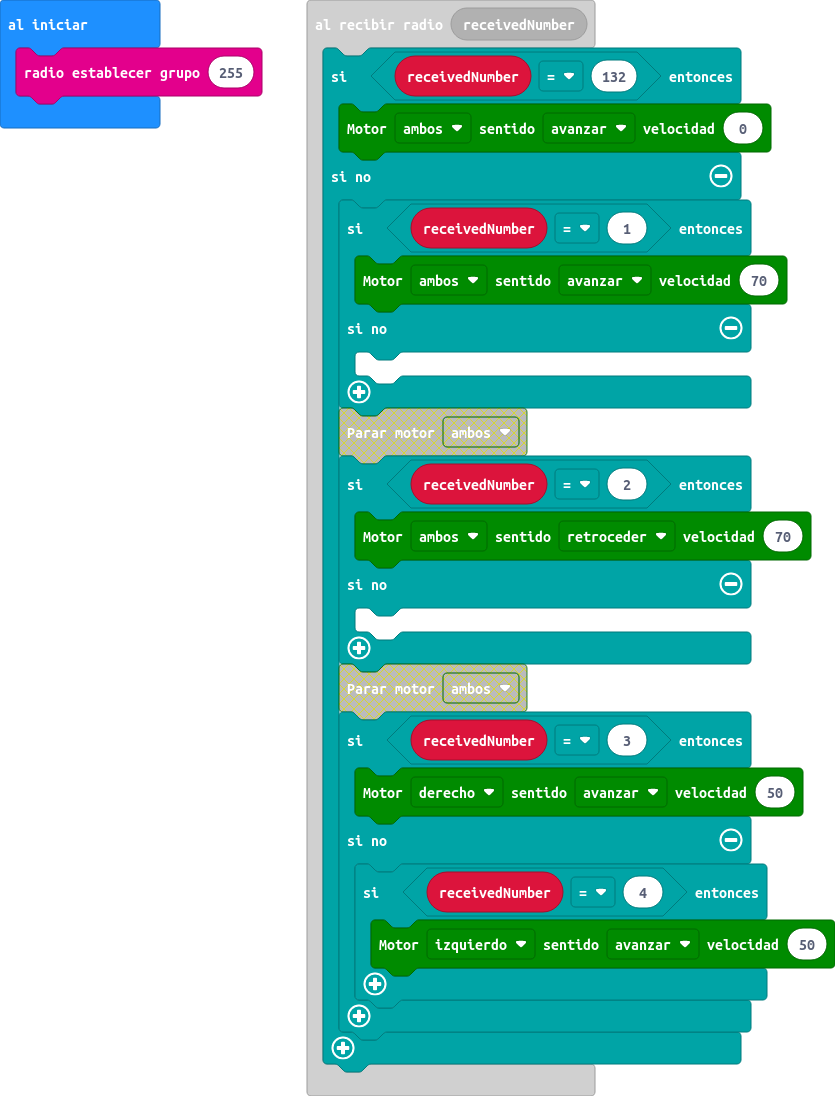
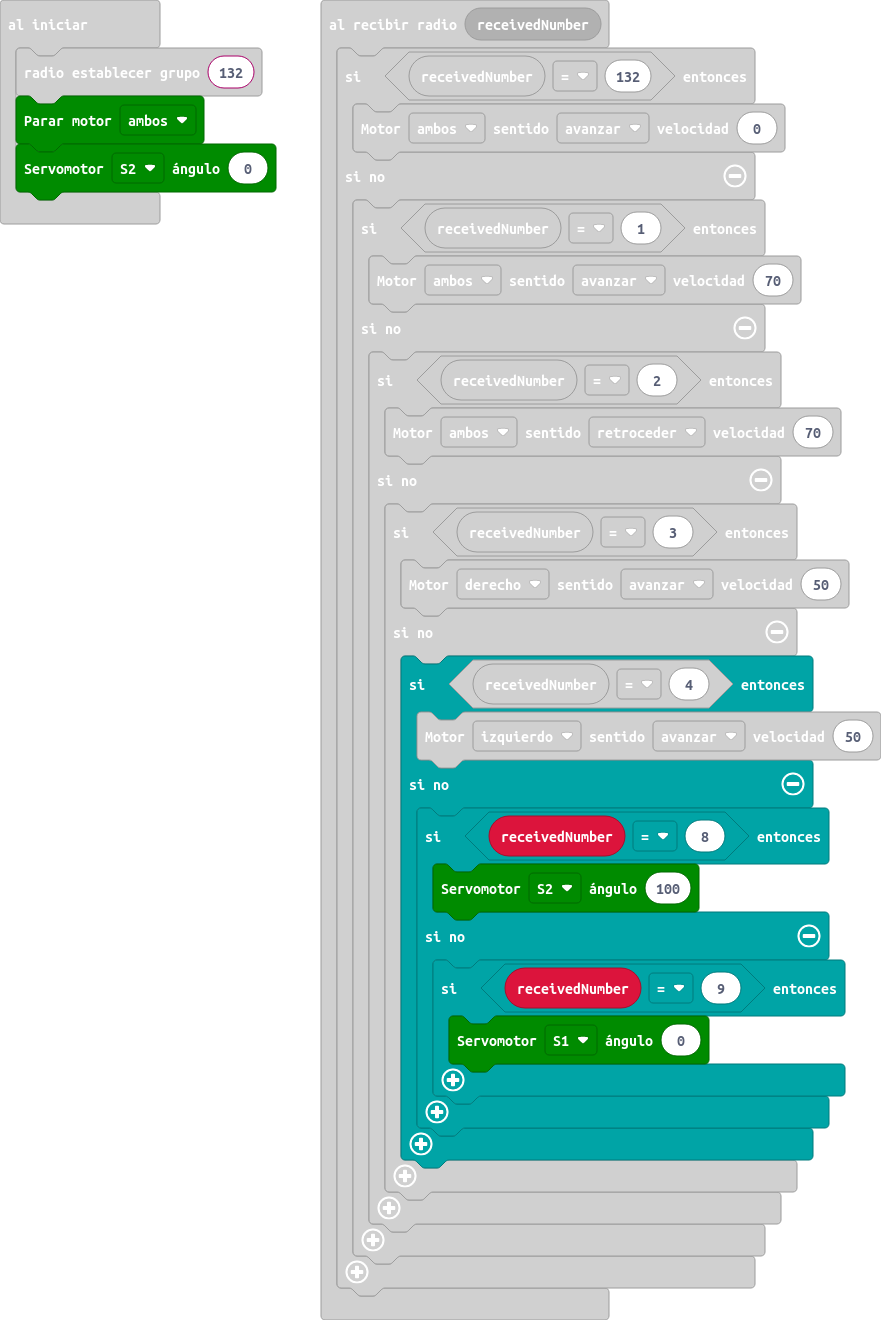
Actualizar main.blocks, main.ts

diff --git a/main.ts b/main.ts
@@ -13,10 +13,20 @@ radio.onReceivedNumber(function (receivedNumber) {
                 } else {
                     if (receivedNumber == 4) {
                         maqueen.motorRun(maqueen.Motors.M1, maqueen.Dir.CW, 50)
+                    } else {
+                        if (receivedNumber == 8) {
+                            maqueen.servoRun(maqueen.Servos.S2, 100)
+                        } else {
+                            if (receivedNumber == 9) {
+                                maqueen.servoRun(maqueen.Servos.S1, 0)
+                            }
+                        }
                     }
                 }
             }
         }
     }
 })
-radio.setGroup(255)
+radio.setGroup(132)
+maqueen.motorStop(maqueen.Motors.All)
+maqueen.servoRun(maqueen.Servos.S2, 0)
